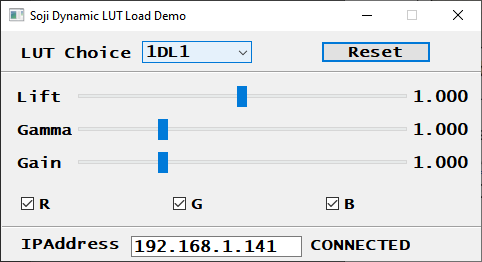
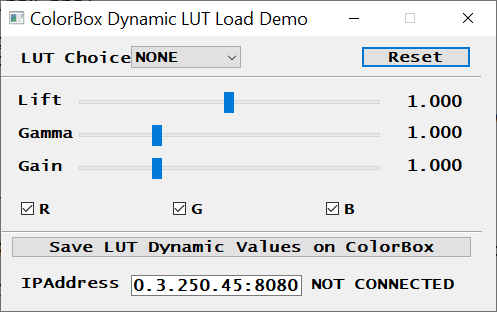
update for changes in qt demos.

diff --git a/cpp-qt/README.md b/cpp-qt/README.md
@@ -56,7 +56,7 @@ For implementation details see [DynamicFrameLoad/dialog.cpp](DynamicFrameLoad/di
 Please read the comments at the top of the file for some more information.
 
 ### DynamicLutLoad
-This demo shows how to dynamically load any of the 1D LUTs or 3D LUT on the ColorBox Pipeline via WebSockets and the RESTful API. The RESTFul API is used to make the “LUT Choice” and to set that LUT into Dynamic transfer mode. The WebSocket is then used to transfer either a 1DLUT or 3DLut. In this case the 3DLUT is derived from the 1DLUT for demo purposes.
+This demo shows how to dynamically load any of the 1D LUTs or 3D LUT on the ColorBox Pipeline via WebSockets and the RESTful API. The RESTFul API is used to make the “LUT Choice” and to set that LUT into Dynamic transfer mode. The WebSocket is then used to transfer either a 1DLUT or 3DLut. In this case the 3DLUT is derived from the 1DLUT for demo purposes. There is also an "Save LUT Dynamic Values on ColorBox" button that allows the current dynamic LUT values to be saved on ColorBox so on subsequent startup they can be loaded.
 
 ![dynamic_lut_load.png](docs/dynamic_lut_load.png)
 
@@ -99,7 +99,7 @@ and report back both the expected and actual results. For this to work the Pipel
 See the top of [RGBTriplet/dialog.cpp](RGBTriplet/dialog.cpp) for implementation details.
 
 ### Librarian
-This demo shows how to interface to the ColorBox Library. The Library consists of 1DLUTs, 3DLUTs, 3x3Matix and Images. This demo focuses on Images but similar code can be used for the other Elements.
+This demo shows how to interface to the ColorBox Library. The Library consists of 1DLUTs, 3DLUTs, Images, Overlays and AMF Files. 
 
 ![librarian.png](docs/librarian.png)
 
